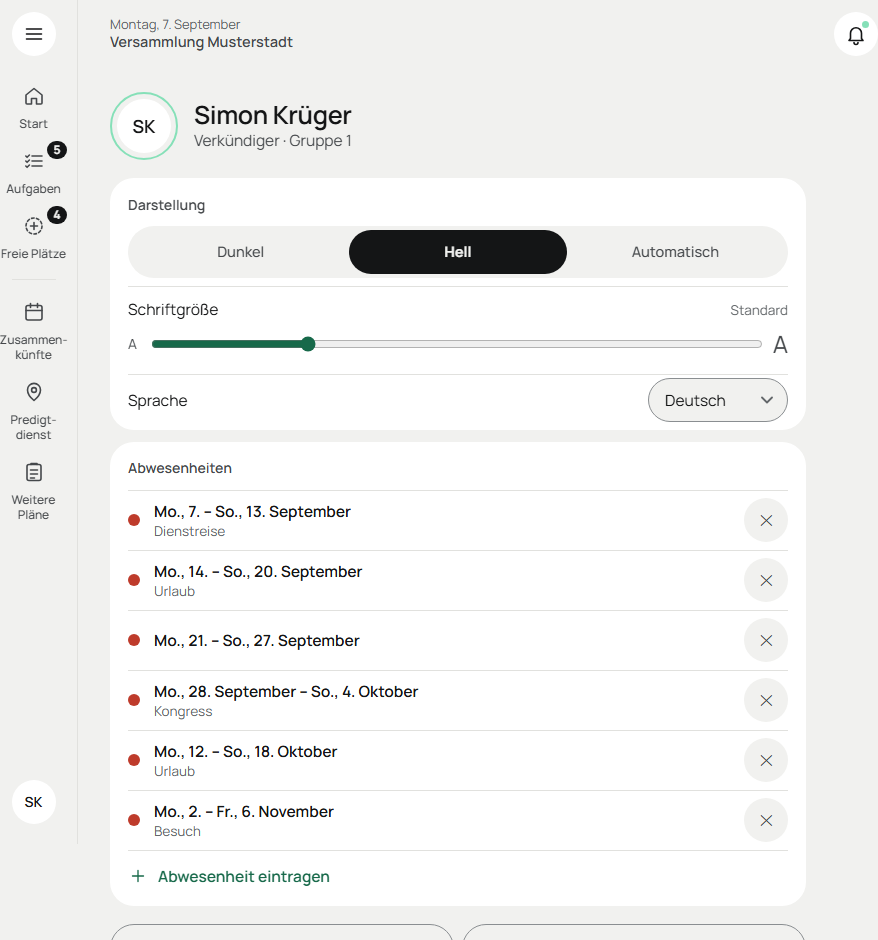
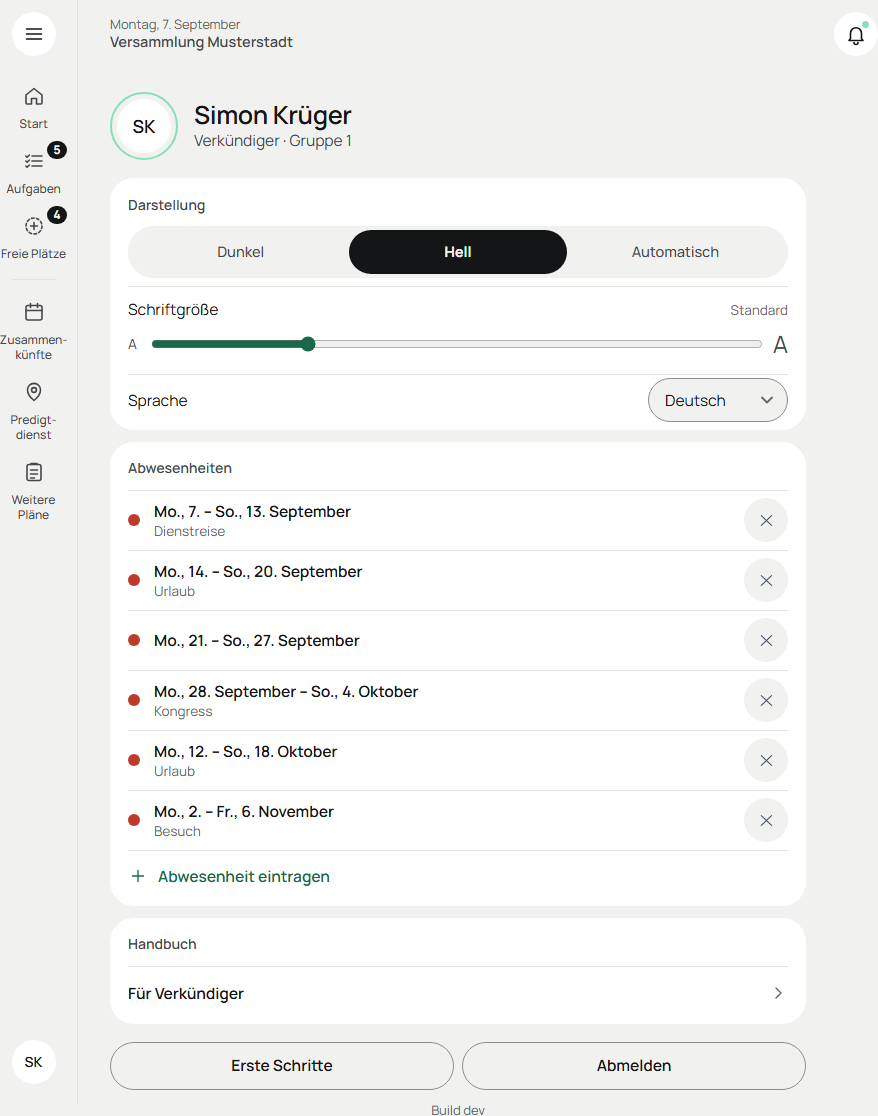
Handbuch aus dem Profil öffnen (T164)
Bis hierher führte kein Weg aus der App zu den Handbüchern. Jetzt steht im
Profil über „Erste Schritte“ die Karte „Handbuch“:

- „Für Verkündiger“ für alle, „Für Planer“ für alle, die planen dürfen
  (Planer und Admin). Die Verweise zeigen auf die GitHub-Ansicht und öffnen
  sich außerhalb der App.
- Die Handbücher gibt es nur auf Deutsch: Jede andere Sprache sagt es im
  Titel („User guide (in German)“). Texte in 12 Sprachen.
- Adressen an einer Stelle (src/profil/handbuch.ts); eine Probe prüft, dass
  die Dateien dort liegen und jede Rolle ihr Handbuch bekommt.
- Handbuch für Verkündiger (Abschnitt 7) und Planer-Vorspann nachgezogen,
  Profilbild neu und höher aufgenommen.

Mit /simplify und /code-review max (4 Befunde behoben, darunter Sprachproben,
die ohne loadOverlay nur Englisch prüften — auch die aus T163). 13
Gegenproben rot, Suite 7636/7636.

diff --git a/src/profil/ProfilScreen.test.tsx b/src/profil/ProfilScreen.test.tsx
@@ -13,8 +13,9 @@ import { demoZustand } from '../../tests/testdaten/demo-start'
 import { FONT_SCALES, THEME_LIST } from '../data/constants'
 import { emptyQualifications } from '../data/helpers'
 import { APP_LANGS } from '../i18n/langs'
-import { dict } from '../i18n/ui'
+import { dict, loadOverlay } from '../i18n/ui'
 import type { Member, Person } from '../data/types'
+import { HANDBUCH } from './handbuch'
 
 /**
  * **Das Profil — der einzige Ort, an dem jeder Nutzer etwas einstellen kann.**
@@ -210,6 +211,71 @@ describe('Erste Schritte (22.10.2026)', () => {
       localStorage.removeItem('ersteSchritteWeg')
       vi.unstubAllGlobals()
     }
+  })
+})
+
+/**
+ * **Das Handbuch aus der App öffnen** (1.11.2026). Bis dahin führte kein Weg
+ * dorthin — der Betreiber fragte, und die Antwort war nein. Entschieden hat er:
+ * Verweise auf GitHub, im Profil neben „Erste Schritte", das Handbuch für
+ * Planer nur für die, die planen dürfen, und in jeder Sprache — mit dem
+ * Hinweis, dass es Deutsch ist.
+ */
+describe('Handbuch (1.11.2026)', () => {
+  /** Die Karte mit den Verweisen — an ihnen gefunden, der Titel hängt an der Sprache. */
+  const karte = (c: HTMLElement) => c.querySelector('a[hreflang="de"]')?.closest('section') ?? undefined
+  const verweise = (c: HTMLElement) =>
+    [...(karte(c)?.querySelectorAll('a') ?? [])].map((a) => [a.textContent, a.getAttribute('href')])
+
+  it('der Verkündiger findet sein Handbuch — es öffnet sich außerhalb der App', () => {
+    const { container } = zeige({ planner: false, zuteiler: false })
+    expect(verweise(container)).toEqual([[t.handbuchVerkuendiger, HANDBUCH.verkuendiger]])
+    const a = karte(container)!.querySelector('a')!
+    expect(a.getAttribute('target')).toBe('_blank')
+    expect(a.getAttribute('rel')).toBe('noopener noreferrer')
+    expect(a.getAttribute('hreflang')).toBe('de')
+  })
+
+  it('wer planen darf, bekommt das Handbuch für Planer dazu — Planer wie Admin', () => {
+    for (const rechte of [{ planner: false, zuteiler: true }, { planner: true, zuteiler: false }]) {
+      expect(verweise(zeige(rechte).container), JSON.stringify(rechte)).toEqual([
+        [t.handbuchVerkuendiger, HANDBUCH.verkuendiger],
+        [t.handbuchPlaner, HANDBUCH.planer],
+      ])
+      cleanup()
+    }
+  })
+
+  it('steht über „Erste Schritte" — beides Hilfe', () => {
+    const { container } = zeige()
+    const film = knopf(container, t.ersteSchritte)!
+    expect(karte(container)!.compareDocumentPosition(film) & Node.DOCUMENT_POSITION_FOLLOWING).toBeTruthy()
+  })
+
+  it('auf Deutsch ohne Hinweis, in jeder anderen Sprache sagt der Titel, dass es Deutsch ist', () => {
+    expect(karte(zeige({ lang: 'de' }).container)?.querySelector('h2')?.textContent).toBe('Handbuch')
+    cleanup()
+    const en = dict('en')
+    const { container } = zeige({ lang: 'en', planner: false, zuteiler: false })
+    expect(karte(container)?.querySelector('h2')?.textContent).toBe('User guide (in German)')
+    expect(verweise(container)).toEqual([[en.handbuchVerkuendiger, HANDBUCH.verkuendiger]])
+  })
+
+  it('der Hinweis steht in jeder Sprache außer Deutsch — als ganzer Titel, in Klammern (Review 1.11.2026)', async () => {
+    // Zusammengesetzt aus dem Sprachnamen der App hieß es „(Allemand)",
+    // „(Tedesco)": Das sind Listenformen. Jetzt trägt jede Sprache ihren Titel
+    // samt Hinweis selbst — und keine darf ihn verlieren. Die Wörterbücher
+    // außer en kommen nachgeladen; ohne `loadOverlay` läse `dict` überall den
+    // englischen Rückfall (die Gegenprobe am arabischen Titel blieb so grün).
+    await Promise.all(APP_LANGS.map(({ code }) => loadOverlay(code)))
+    for (const { code } of APP_LANGS.filter((l) => l.code !== 'de')) {
+      expect(dict(code).handbuch, code).toMatch(/\S \(.+\)$/)
+    }
+    expect(t.handbuch).not.toContain('(')
+  })
+
+  it('eine Karte wie die übrigen im Profil — keine eigene Landmarke (Review 1.11.2026)', () => {
+    expect(karte(zeige().container)?.getAttribute('aria-labelledby')).toBeNull()
   })
 })
 

diff --git a/src/profil/ProfilScreen.tsx b/src/profil/ProfilScreen.tsx
@@ -17,6 +17,7 @@ import { promptInstall } from '../lib/install'
 import { AbwesenheitenKarte } from '../components/AbwesenheitenKarte'
 import { AnsichtKarte } from './AnsichtKarte'
 import { Diagnose } from './Diagnose'
+import { HandbuchKarte } from './HandbuchKarte'
 import './profil.css'
 
 /**
@@ -41,6 +42,7 @@ const FS_LABELS = {
  *    Push-Mitteilungen (auf dem iPhone erst als App, dann steht dort der Hinweis).
  *  - **Abwesenheiten**: die eigenen, die anstehen — und „Abwesenheit eintragen".
  *  - **Verwaltung** (Admins, nur am Handy — ab dem Tablet steht sie im Menü).
+ *  - **Handbuch**: für Verkündiger, wer planen darf auch für Planer (GitHub).
  *  - App installieren, der Film „Erste Schritte", Abmelden und der Stand der App.
  */
 export function ProfilScreen() {
@@ -54,7 +56,8 @@ export function ProfilScreen() {
   const scaleLabel = FS_LABELS[state.fontScale]
   // Konto-E-Mail (nur Produktion; die eigene Mitglieder-Zeile sieht jeder).
   const myEmail = state.members.find((m) => m.userId === state.userId)?.email ?? ''
-  const verwalten = erlaubteScreens(rechteVon(state)).includes('personen')
+  const rechte = rechteVon(state)
+  const verwalten = erlaubteScreens(rechte).includes('personen')
 
   // Web-Push (nur angemeldet): Schalter, wenn der Browser es kann; auf iOS im
   // Browser stattdessen Installations-Hinweis (dort erst als App möglich).
@@ -172,6 +175,9 @@ export function ProfilScreen() {
               </button>
             </section>
           )}
+
+          {/* Das Handbuch gleich über „Erste Schritte" — beides Hilfe. */}
+          <HandbuchKarte fuerPlaner={rechte.zuteilen} />
 
           <div className="profil-knoepfe">
             {angemeldet && installAvail && (

diff --git a/src/profil/HandbuchKarte.tsx b/src/profil/HandbuchKarte.tsx
@@ -1,0 +1,43 @@
+import { Zeichen } from '../bausteine/Zeichen'
+import { useT } from '../i18n/useT'
+import { HANDBUCH } from './handbuch'
+
+/**
+ * **Das Handbuch aus der App öffnen** (1.11.2026): im Profil neben „Erste
+ * Schritte". Jeder sieht das Handbuch für Verkündiger, wer planen darf auch
+ * das für Planer. Bis dahin führte kein Weg aus der App dorthin.
+ *
+ * Die Handbücher gibt es nur auf Deutsch. Außerhalb des Deutschen sagt es der
+ * Titel selbst — „User guide (in German)" —, damit niemand eine Seite in
+ * seiner Sprache erwartet. Der Hinweis steht als ganzer Titel im Wörterbuch,
+ * nicht zusammengesetzt: Die Sprachnamen der App sind Listenformen, und mitten
+ * im Satz hieß es „(Allemand)", „(Tedesco)" (Review 1.11.2026).
+ *
+ * Die Verweise öffnen sich außerhalb der App (`_blank`): Wer das Handbuch
+ * liest, findet die App danach dort, wo er sie verlassen hat.
+ */
+export function HandbuchKarte({ fuerPlaner }: { fuerPlaner: boolean }) {
+  const { t } = useT()
+  const verweise = [
+    { key: 'verkuendiger', text: t.handbuchVerkuendiger, href: HANDBUCH.verkuendiger },
+    ...(fuerPlaner ? [{ key: 'planer', text: t.handbuchPlaner, href: HANDBUCH.planer }] : []),
+  ]
+  return (
+    <section className="karte profil-karte">
+      <h2 className="abschnitt-titel karte-titel">{t.handbuch}</h2>
+      {verweise.map((v) => (
+        <a
+          key={v.key}
+          className="profil-zeile profil-verweis"
+          href={v.href}
+          hrefLang="de"
+          target="_blank"
+          rel="noopener noreferrer"
+        >
+          <span>{v.text}</span>
+          <Zeichen name="weiter" />
+        </a>
+      ))}
+    </section>
+  )
+}

diff --git a/tests/handbuch-verweise.test.ts b/tests/handbuch-verweise.test.ts
@@ -1,0 +1,29 @@
+import { existsSync, readFileSync } from 'node:fs'
+import { resolve } from 'node:path'
+import { describe, expect, it } from 'vitest'
+import { HANDBUCH, HANDBUCH_REPO } from '../src/profil/handbuch'
+
+/**
+ * **Die Verweise auf die Handbücher führen dorthin, wo sie liegen**
+ * (1.11.2026). Die App zeigt auf GitHub (`src/profil/handbuch.ts`); wird ein
+ * Handbuch umbenannt oder verschoben, liefe der Verweis im Profil ins Leere —
+ * und das fiele erst dem auf, der ihn antippt.
+ */
+describe('Handbuch-Verweise', () => {
+  it.each(Object.entries(HANDBUCH))('%s zeigt auf eine Datei im Repo', (_rolle, url) => {
+    expect(url.startsWith(HANDBUCH_REPO)).toBe(true)
+    expect(existsSync(resolve(url.slice(HANDBUCH_REPO.length))), url).toBe(true)
+  })
+
+  it('… und jede Rolle auf das Handbuch, das die Übersicht ihr zuordnet', () => {
+    // Die Übersicht `docs/user-guide/README.md` sagt, für wen welches Handbuch
+    // ist („– für alle Verkündiger", „– zusätzlich für Planer und Admins").
+    // Vertauschte Verweise führten den Verkündiger ins Handbuch der Planer.
+    const uebersicht = readFileSync(resolve('docs/user-guide/README.md'), 'utf8').split('\n')
+    const wofuer: Record<keyof typeof HANDBUCH, string> = { verkuendiger: 'für alle Verkündiger', planer: 'für Planer' }
+    for (const [rolle, url] of Object.entries(HANDBUCH) as [keyof typeof HANDBUCH, string][]) {
+      const datei = url.split('/').at(-1)!
+      expect(uebersicht.find((z) => z.includes(`(${datei})`)), datei).toContain(wofuer[rolle])
+    }
+  })
+})

diff --git a/src/planen/heft-befunde.test.ts b/src/planen/heft-befunde.test.ts
@@ -1,8 +1,8 @@
-import { describe, expect, it } from 'vitest'
+import { beforeAll, describe, expect, it } from 'vitest'
 import type { Befund } from '../../supabase/functions/import-week/befunde.ts'
 import type { Week } from '../data/types'
 import { APP_LANGS } from '../i18n/langs'
-import { dict } from '../i18n/ui'
+import { dict, loadOverlay } from '../i18n/ui'
 import { befundZeile, geratenePunkte, stellenIn, type Stellen } from './heft-befunde'
 
 /**
@@ -29,6 +29,11 @@ const OHNE: Stellen = { abschnitt: (kind) => kind, punkt: () => null }
 const zeile = (b: Befund, code: (typeof APP_LANGS)[number]['code'], stellen = OHNE) => befundZeile(b, dict(code), stellen, code)!
 
 describe('befundZeile', () => {
+  // Die Wörterbücher außer en kommen nachgeladen. Ohne das hier las `dict` für
+  // zehn Sprachen den englischen Rückfall, und „in jeder Sprache" prüfte nur
+  // Englisch (gefunden im Review vom 1.11.2026).
+  beforeAll(() => Promise.all(APP_LANGS.map(({ code }) => loadOverlay(code))))
+
   it('jede Art hat einen eigenen Satz — in jeder Sprache der App', () => {
     for (const { code } of APP_LANGS) {
       const saetze = ALLE.map((b) => zeile(b, code).text)

diff --git a/src/profil/handbuch.ts b/src/profil/handbuch.ts
@@ -1,0 +1,17 @@
+/**
+ * **Wo die Handbücher liegen** (1.11.2026): im öffentlichen Repo, als
+ * Markdown — GitHub zeigt sie mit Bildern und Inhaltsverzeichnis, ohne Konto.
+ *
+ * Entschieden hat der Betreiber gegen eine eigene Seite über Pages oder in der
+ * App: Die Handbücher werden im Repo gepflegt, und dort stehen sie immer auf
+ * dem Stand von `main`. Dass die Dateien unter diesen Pfaden liegen, prüft
+ * `tests/handbuch-verweise.test.ts`.
+ */
+export const HANDBUCH_REPO = 'https://github.com/doubrawa/jw-congregation-planner/blob/main/'
+
+export const HANDBUCH = {
+  /** Für alle — auch für Gruppenaufseher und Gehilfen (Abschnitt 10). */
+  verkuendiger: `${HANDBUCH_REPO}docs/user-guide/verkuendiger.md`,
+  /** Für alle, die planen dürfen: Planer und Admin. */
+  planer: `${HANDBUCH_REPO}docs/user-guide/planer.md`,
+} as const

diff --git a/src/i18n/de.ts b/src/i18n/de.ts
@@ -444,6 +444,12 @@ export const DE = {
     ersteSchritteFragen: 'Fragen? Sprich die Ältesten an.',
     ersteSchrittePause: 'Pause', ersteSchritteAbspielen: 'Abspielen', ersteSchritteNochmal: 'Nochmal ansehen',
     ersteSchritteZurueck: 'Zurück', ersteSchritteWeiter: 'Weiter',
+    // Das Handbuch im Profil (1.11.2026, `HandbuchKarte`): Verweise auf GitHub.
+    // Die Handbücher gibt es nur deutsch — jede andere Sprache sagt es im Titel
+    // selbst, in Klammern („User guide (in German)“).
+    handbuch: 'Handbuch',
+    handbuchVerkuendiger: 'Für Verkündiger',
+    handbuchPlaner: 'Für Planer',
     familieLabel: 'Familie',
     // Amtlicher Wortlaut aus Absatz 7 der jw.org-„Anweisungen" — in jeder
     // Sprache der dortige Satz, statt einer eigenen Umschreibung. Zuletzt

diff --git a/src/i18n/overlays/ru.ts b/src/i18n/overlays/ru.ts
@@ -524,6 +524,9 @@ export default {
   "ersteSchritte": "Первые шаги",
   "ersteSchritteKarte": "Впервые здесь? Этот короткий фильм покажет вам, с чего начать.",
   "ersteSchritteAnsehen": "Смотреть",
+  "handbuch": "Руководство (на немецком)",
+  "handbuchVerkuendiger": "Для возвещателей",
+  "handbuchPlaner": "Для планировщиков",
   "ersteSchritteFuer": "Versammlung.app для возвещателей",
   "ersteSchritteSchritt": "Шаг {n} из {m}",
   "ersteSchritteLinkTitel": "Нажмите на ссылку в сообщении.",

diff --git a/src/i18n/overlays/uk.ts b/src/i18n/overlays/uk.ts
@@ -524,6 +524,9 @@ export default {
   "ersteSchritte": "Перші кроки",
   "ersteSchritteKarte": "Уперше тут? Цей короткий фільм покаже вам, з чого почати.",
   "ersteSchritteAnsehen": "Переглянути",
+  "handbuch": "Посібник (німецькою)",
+  "handbuchVerkuendiger": "Для вісників",
+  "handbuchPlaner": "Для планувальників",
   "ersteSchritteFuer": "Versammlung.app для вісників",
   "ersteSchritteSchritt": "Крок {n} з {m}",
   "ersteSchritteLinkTitel": "Торкніться посилання в повідомленні.",

diff --git a/src/i18n/overlays/fa.ts b/src/i18n/overlays/fa.ts
@@ -523,6 +523,9 @@ export default {
   "ersteSchritte": "گامهای نخست",
   "ersteSchritteKarte": "بار اول است که اینجا هستید؟ این فیلم کوتاه نشان میدهد چطور شروع کنید.",
   "ersteSchritteAnsehen": "تماشا",
+  "handbuch": "راهنما (به آلمانی)",
+  "handbuchVerkuendiger": "برای مبشّران",
+  "handbuchPlaner": "برای برنامهریزان",
   "ersteSchritteFuer": "Versammlung.app برای مبشّران",
   "ersteSchritteSchritt": "گام {n} از {m}",
   "ersteSchritteLinkTitel": "روی پیوند در پیام ضربه بزنید.",

diff --git a/src/i18n/overlays/ar.ts b/src/i18n/overlays/ar.ts
@@ -499,6 +499,9 @@ export default {
   "ersteSchritte": "الخطوات الأولى",
   "ersteSchritteKarte": "أول مرة هنا؟ يوضّح هذا الفيلم القصير طريقة البدء.",
   "ersteSchritteAnsehen": "مشاهدة",
+  "handbuch": "دليل الاستخدام (بالألمانية)",
+  "handbuchVerkuendiger": "للناشرين",
+  "handbuchPlaner": "للمخطِّطين",
   "ersteSchritteFuer": "Versammlung.app للناشرين",
   "ersteSchritteSchritt": "الخطوة {n} من {m}",
   "ersteSchritteLinkTitel": "انقر على الرابط في الرسالة.",

diff --git a/src/i18n/overlays/fr.ts b/src/i18n/overlays/fr.ts
@@ -524,6 +524,9 @@ export default {
   "ersteSchritte": "Premiers pas",
   "ersteSchritteKarte": "Première fois ici\u00a0? Cette courte vidéo te montre comment commencer.",
   "ersteSchritteAnsehen": "Regarder",
+  "handbuch": "Guide d’utilisation (en allemand)",
+  "handbuchVerkuendiger": "Pour les proclamateurs",
+  "handbuchPlaner": "Pour les planificateurs",
   "ersteSchritteFuer": "Versammlung.app pour les proclamateurs",
   "ersteSchritteSchritt": "Étape {n} sur {m}",
   "ersteSchritteLinkTitel": "Touche le lien dans le message.",
